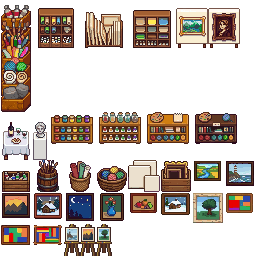
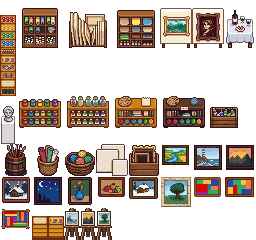
Shop walls and bins: unbroken wainscot rail, bins at the game's scale
- Paintings hang entirely on Front; their lower tiles had replaced the
  wainscot's top rail on Buildings
- The left wall's bins are drawn to Pierre's seed-bin layout
  (tools/art/wall_bins.py): one tile wide, straight on, goods a pixel or
  two; the whole column blocks. A matching double crate beside them, and
  the game's own barrel below (the generated bins were angled, with paint
  tubes half a person's height)

diff --git a/tools/art/wall_bins.py b/tools/art/wall_bins.py
@@ -1,0 +1,95 @@
+"""Open bins of art supplies down the shop's left-hand wall, and a double
+crate beside them, drawn pixel by pixel at the game's scale.
+
+The user's notes (2026-10-24): the generated bins sat at an angle and
+their goods were huge (paint tubes half a person's height). Pierre's seed
+bins are the model: a column one tile wide, each bin a straight-on tray
+16 pixels wide and 9 tall (a dark frame, a lit rim, a 12x5 well of goods,
+a front lip), the next bin directly below; every item a pixel or two.
+These follow that layout in a similar wood palette, with our own goods.
+
+Used by build_shop_furniture.py.
+"""
+from PIL import Image
+
+WOOD = {
+    "G": (104, 43, 27),     # frame outline
+    "H": (137, 66, 5),      # rim, shaded
+    "I": (183, 104, 5),     # rim corners
+    "J": (201, 130, 33),    # rim, lit
+    "R": (218, 147, 33),    # inner sides, lip
+    "K": (120, 62, 16),     # the well's shadowed back
+}
+
+# One row pattern per well row (5 rows, 12 wide); letters are this bin's
+# own colours, "." shows the well's back.
+BINS = {
+    "tubes_red": ({"a": (196, 40, 52), "b": (140, 24, 40), "c": (200, 200, 210)},
+                  ["abbcabbcabbc", "bcabbcabbcab", "abbcabbcabbc", "cabbcabbcabb", "abbcabbcabbc"]),
+    "tubes_yellow": ({"a": (240, 196, 48), "b": (196, 140, 24), "c": (200, 200, 210)},
+                     ["abbcabbcabbc", "bcabbcabbcab", "abbcabbcabbc", "cabbcabbcabb", "abbcabbcabbc"]),
+    "tubes_blue": ({"a": (64, 120, 200), "b": (40, 76, 150), "c": (200, 200, 210)},
+                   ["abbcabbcabbc", "bcabbcabbcab", "abbcabbcabbc", "cabbcabbcabb", "abbcabbcabbc"]),
+    "tubes_green": ({"a": (76, 168, 64), "b": (44, 112, 48), "c": (200, 200, 210)},
+                    ["abbcabbcabbc", "bcabbcabbcab", "abbcabbcabbc", "cabbcabbcabb", "abbcabbcabbc"]),
+    "brushes": ({"h": (150, 92, 44), "d": (96, 56, 30), "f": (210, 210, 220), "t": (60, 40, 30)},
+                ["t.t.t.t.t.t.", "fhfhfhfhfhfh", "hdhdhdhdhdhd", "dhdhdhdhdhdh", "hdhdhdhdhdhd"]),
+    "pencils": ({"r": (210, 52, 52), "o": (236, 140, 40), "y": (236, 210, 64), "g": (72, 160, 72), "b": (64, 110, 200), "p": (140, 72, 180), "w": (232, 200, 150)},
+                ["wwwwwwwwwwww", "roygbproygbp", "roygbproygbp", "roygbproygbp", "oygbproygbpr"]),
+    "yarn": ({"a": (196, 64, 96), "b": (140, 40, 72), "c": (72, 140, 200), "d": (44, 96, 150), "e": (236, 196, 80), "f": (190, 140, 40)},
+             ["abacdcefeaba", "babdcdfefbab", "cdcefeabacdc", "dcdfefbabdcd", "efeabacdcefe"]),
+    "clay": ({"a": (196, 104, 72), "b": (150, 72, 48), "c": (150, 150, 160), "d": (104, 104, 116)},
+             ["aaab.cccd.aa", "aaab.cccd.aa", "bbbb.dddd.bb", "cccd.aaab.cc", "dddd.bbbb.dd"]),
+    "paper": ({"a": (240, 232, 210), "b": (200, 186, 156), "c": (236, 200, 168)},
+              ["abaabaabaaba", "babbabbabbab", "abaabaabaaba", "cbccbccbccbc", "abaabaabaaba"]),
+    "charcoal": ({"a": (52, 48, 56), "b": (84, 80, 92), "c": (30, 28, 34)},
+                 ["abacabacabac", "cabacabacaba", "abacabacabac", "bacabacabaca", "abacabacabac"]),
+}
+COLUMN = ["tubes_red", "tubes_yellow", "tubes_green", "tubes_blue", "brushes", "pencils", "yarn", "clay", "paper", "charcoal"]
+
+
+def tray(width, goods, colours):
+    """One bin, `width` pixels wide and 8 tall (the 9th row is the next
+    bin's top edge, or the column's base)."""
+    inner = width - 4
+    rows = ["GGG" + "H" * (width - 5) + "GG",
+            "GI" + "J" * (width - 4) + "IG"]
+    for i, line in enumerate(goods):
+        side = "R" if 1 <= i <= 3 else "J"
+        rows.append("G" + side + (line * 4)[:inner] + side + "G")
+    rows.append("GIJ" + "R" * (width - 6) + "JIG")
+    im = Image.new("RGBA", (width, len(rows)), (0, 0, 0, 0))
+    px = im.load()
+    for y, line in enumerate(rows):
+        for x, ch in enumerate(line):
+            px[x, y] = (colours.get(ch) or WOOD.get(ch, WOOD["K"])) + (255,)
+    return im
+
+
+def column():
+    """The bins stacked down the wall, one tile wide, closed at the base."""
+    bins = [tray(16, BINS[name][1], BINS[name][0]) for name in COLUMN]
+    pitch = bins[0].height
+    im = Image.new("RGBA", (16, pitch * len(bins) + 1), (0, 0, 0, 0))
+    for i, b in enumerate(bins):
+        im.alpha_composite(b, (0, i * pitch))
+    base = tray(16, ["." * 12] * 5, {})
+    im.paste(base.crop((0, 0, 16, 1)), (0, pitch * len(bins)))
+    return im
+
+
+def double_crate(left, right):
+    """Two bins side by side on a low wooden stand (2 tiles wide), its
+    front planks below: Pierre's produce crates, with our goods."""
+    a = tray(16, BINS[left][1], BINS[left][0])
+    b = tray(16, BINS[right][1], BINS[right][0])
+    im = Image.new("RGBA", (32, 24), (0, 0, 0, 0))
+    im.alpha_composite(a, (0, 0))
+    im.alpha_composite(b, (16, 0))
+    px = im.load()
+    front = [WOOD["G"]] + [WOOD["J"], WOOD["R"], WOOD["R"], WOOD["H"]] * 3 + [WOOD["H"], WOOD["G"]]
+    for y in range(8, 24):
+        for x in range(32):
+            edge = x in (0, 31) or y == 23
+            px[x, y] = (WOOD["G"] if edge else front[(y - 8) % len(front)] if x not in (15, 16) else WOOD["G"]) + (255,)
+    return im

diff --git a/tools/build_shop_interior.py b/tools/build_shop_interior.py
@@ -168,7 +168,9 @@ class Room:
     def place(self, name, x, y, solid=1):
         """Puts a packed piece with its top-left tile at (x, y). Its bottom
         `solid` rows block (Buildings); the rows above draw over the farmer
-        (Front, or Front2 where Front is taken)."""
+        (Front, or Front2 where Front is taken). Wall art takes solid=0: it
+        hangs over the wall, whose wainscot rail is on Buildings and must
+        stay (a painting's lower tiles there replaced the rail)."""
         p = self.pieces[name]
         for j in range(p["h"]):
             for i in range(p["w"]):
@@ -210,10 +212,10 @@ def furnish(room, leah, pierre, gallery):
     # Paintings over the counter; the cubbies, and another painting before
     # the fireplace.
     walls = ("painting_blocks", "painting_mosaic") if gallery else ("painting_fruit_jug", "painting_cabin")
-    room.place(walls[0], 2, 1)
-    room.place(walls[1], 4, 1)
+    room.place(walls[0], 2, 1, solid=0)
+    room.place(walls[1], 4, 1, solid=0)
     room.place("rack_cubbies", 9, 2)
-    room.place("painting_stripes" if gallery else "painting_river", 12, 1)
+    room.place("painting_stripes" if gallery else "painting_river", 12, 1, solid=0)
     if not gallery:
         room.place("stack_canvases", 12, 3)         # blank canvases leaning on the wall
     # Leah's fireplace (her tiles x 10-13: log piles either side of the
@@ -241,10 +243,12 @@ def furnish(room, leah, pierre, gallery):
         room.place(name, ex, 10)
 
     # --- Along the side walls ----------------------------------------------
-    # Open bins of supplies down the left-hand wall, like Pierre's seed
-    # bins; a barrel of brushes below them, a palm in the far corner.
-    room.place("bins_column", 1, 6)
-    room.place("barrel_brushes", 3, 11)
+    # Open bins of supplies down the left-hand wall, one tile wide like
+    # Pierre's seed bins, with his kind of barrel below them; a palm in the
+    # far corner.
+    room.place("bins_column", 1, 5, solid=6)          # against the wall: all of it blocks
+    room.copy(pierre, "Front", 1, 23, 1, 11)
+    room.copy(pierre, "Buildings", 1, 24, 1, 12)
     room.copy(pierre, "Front", 1, 17, 18, 11)
     room.copy(pierre, "Buildings", 1, 18, 18, 12)
 
@@ -252,7 +256,7 @@ def furnish(room, leah, pierre, gallery):
         # --- The shop floor: two rows of low shelves either side of the
         # aisle (the row in front of the counter stays clear for customers),
         # the canvas rack and stock by the right-hand wall.
-        room.place("crate_frames", 3, 8)            # stock beside the bins, as Pierre's crates sit by his
+        room.place("crate_supplies", 2, 8)          # stock beside the bins, as Pierre's crates sit by his
         room.place("low_paints", 5, 7)
         room.place("low_tubes", 5, 10)
         room.place("low_craft", 11, 7)

diff --git a/tools/art/build_shop_furniture.py b/tools/art/build_shop_furniture.py
@@ -15,6 +15,7 @@ from PIL import Image
 
 sys.path.insert(0, os.path.dirname(os.path.abspath(__file__)))
 from vanillafy import recolour_black
+import wall_bins
 
 SHEET_TILES = 16            # sheet width in tiles
 
@@ -109,21 +110,6 @@ def on_grid(im, hang=False):
     return tile
 
 
-# Bins of supplies stacked down the left-hand wall, like Pierre's seed bins:
-# paint tubes, brushes, coloured pencils, pastels, yarn, rolled paper, clay.
-BINS = [1, 17, 25, 33, 42, 49, 54]
-BIN_PITCH = 13          # each bin sits this far below the last, overlapping its back
-
-
-def column(bins):
-    """The bins stacked down the wall, each drawn over the back of the one
-    above it (it's nearer the camera)."""
-    width = max(b.width for b in bins)
-    height = BIN_PITCH * (len(bins) - 1) + bins[-1].height
-    col = Image.new("RGBA", (width, height), (0, 0, 0, 0))
-    for i, b in enumerate(bins):
-        col.alpha_composite(b, ((width - b.width) // 2, i * BIN_PITCH))
-    return on_grid(col)
 
 
 def pack(pieces):
@@ -167,7 +153,9 @@ def main():
     gen_dir, out, index = sys.argv[1], sys.argv[2], sys.argv[3]
     raw = {name: load(gen_dir, job, n) for name, (job, n) in PICKS.items()}
     pieces = {name: on_grid(im, hang=name.startswith("painting_")) for name, im in raw.items()}
-    pieces["bins_column"] = column([load(gen_dir, "wall_bins", n) for n in BINS])
+    # Drawn at the game's scale rather than generated (tools/art/wall_bins.py).
+    pieces["bins_column"] = on_grid(wall_bins.column())
+    pieces["crate_supplies"] = on_grid(wall_bins.double_crate("paper", "pencils"))
     for name, painting in EASELS.items():
         pieces[name] = easel_with(raw[painting])
     sheet, places = pack(pieces)
